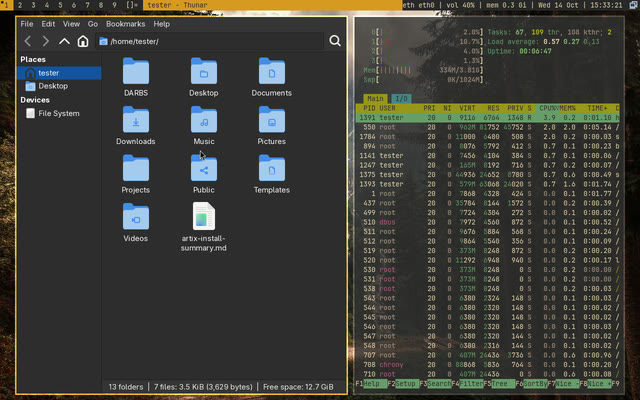
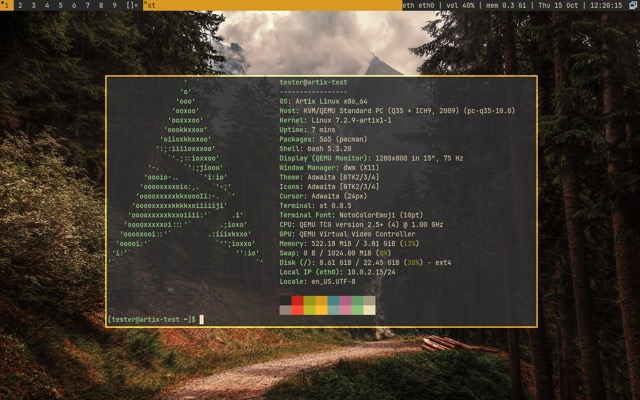
Updated DWM and Sway screenshots

diff --git a/README.md b/README.md
@@ -39,10 +39,10 @@ The script can install one of these:
   <a href="assets/desktops/cinnamon.jpg"><img src="assets/desktops/cinnamon.jpg" width="250" alt="The Cinnamon desktop"></a>
   <a href="assets/desktops/xfce.jpg"><img src="assets/desktops/xfce.jpg" width="250" alt="The XFCE desktop"></a>
   <br>
-  <a href="assets/desktops/sway.jpg"><img src="assets/desktops/sway.jpg" width="250" alt="sway with a terminal, from SARBS"></a>
-  <a href="assets/desktops/dwm.jpg"><img src="assets/desktops/dwm.jpg" width="250" alt="dwm with the Thunar file manager and htop, from DARBS"></a>
+  <a href="assets/desktops/sway.jpg"><img src="assets/desktops/sway.jpg" width="250" alt="sway with a floating terminal running fastfetch, from SARBS"></a>
+  <a href="assets/desktops/dwm.jpg"><img src="assets/desktops/dwm.jpg" width="250" alt="dwm with a floating terminal running fastfetch, from DARBS"></a>
   <br>
-  <sub>KDE Plasma, Cinnamon and XFCE; sway and dwm. From the automated tests, right after logging in.</sub>
+  <sub>KDE Plasma, Cinnamon and XFCE; sway and dwm.</sub>
 </p>
 
 KDE Plasma, Cinnamon and XFCE also come with the LibreWolf web browser, Bluetooth, fonts for most languages and emoji, and the graphics drivers for Intel and AMD graphics. Sound and the network work right away with every desktop.
